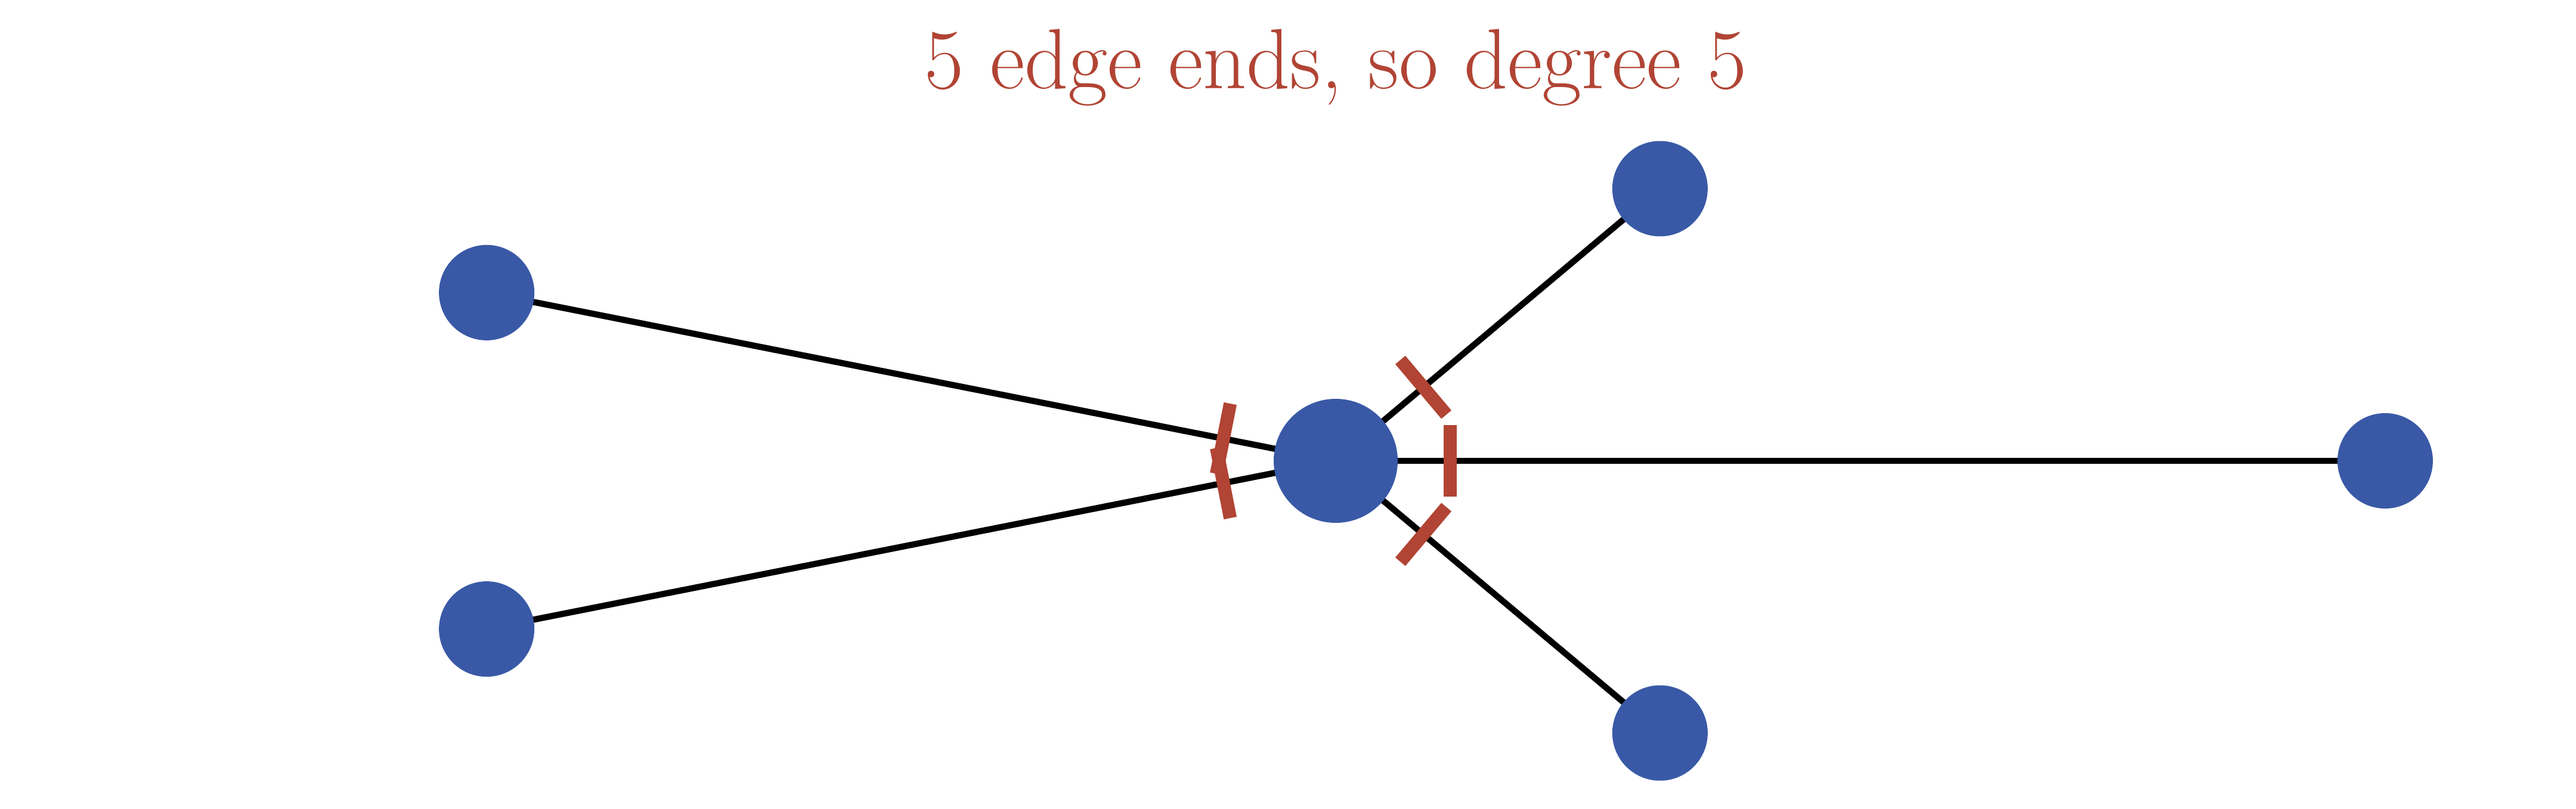
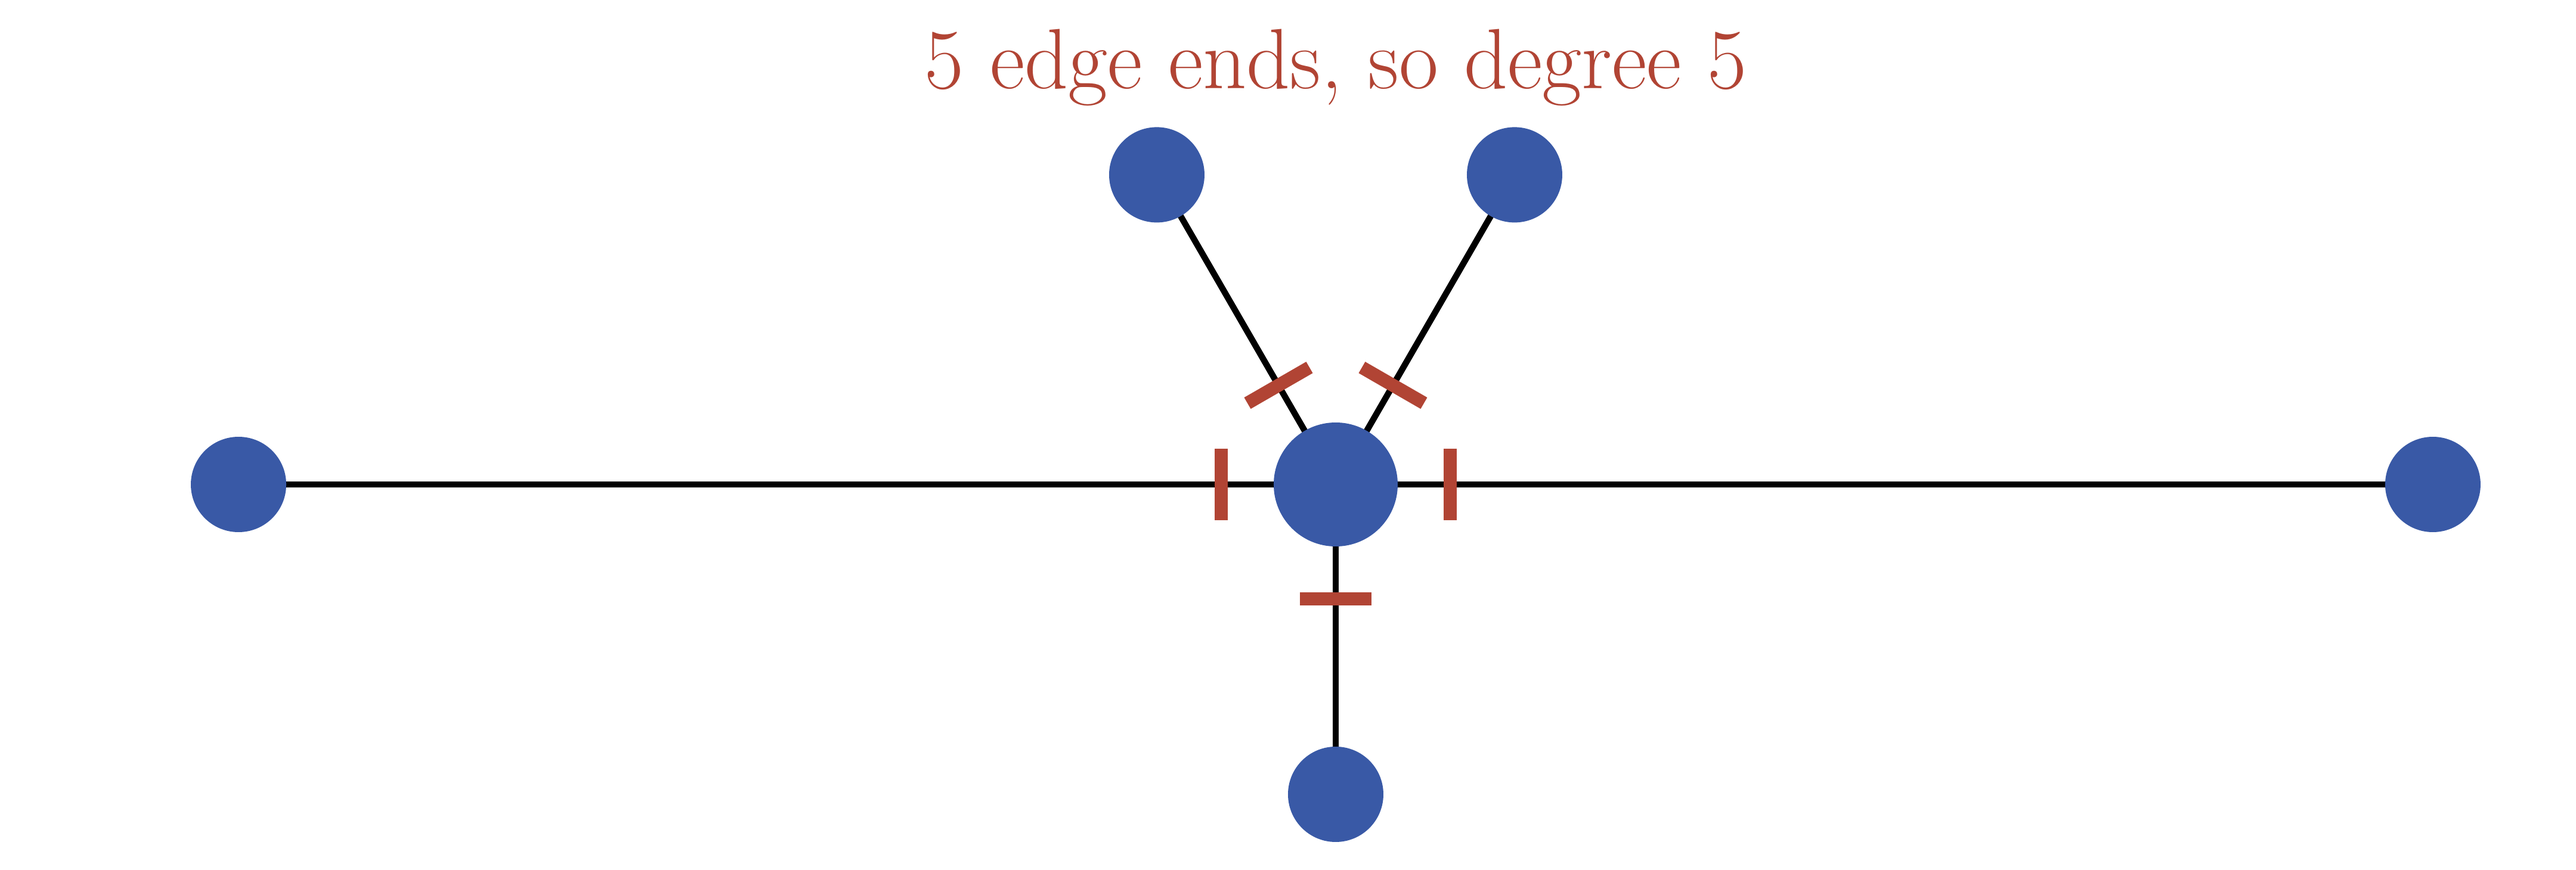
m06: split the two-application slide, and record what plan.md did not get
'Two more' carried both infrastructure defence and systemic risk, which is two
points on one slide. DECK_SPEC gains a deviations section: the power-iteration
slider is not built (it only exists in the --html export, which the render gate
never exercises), and Part 5 meets S5 through the GIF and the discussion instead.

diff --git a/docs/slide/new/m06/figures/figs_web.py b/docs/slide/new/m06/figures/figs_web.py
@@ -681,22 +681,22 @@ def sketch(cx, cy, nodes, edges, key, name, ring_key=True, dashed=()):
 # purpose -> the metrics that answer it. The five pairings of DECK_SPEC slide 85,
 # each drawn as its own thumbnail so the slide cannot read as a table.
 PURPOSE = [
-    dict(sx=70, sy=250, tx=138, anchor="west", purpose="popular", metric="degree",
+    dict(sx=70, sy=250, tx=140, anchor="west", purpose="popular", metric="degree",
          nodes=[(0, 0), (38, 0), (12, 36), (-31, 22), (-31, -22), (12, -36)],
          edges=[(0, 1), (0, 2), (0, 3), (0, 4), (0, 5)], key=0),
-    dict(sx=350, sy=250, tx=415, anchor="west", purpose="efficient",
-         metric="closeness,\\\\harmonic",
+    dict(sx=372, sy=250, tx=442, anchor="west", purpose="efficient",
+         metric="closeness\\\\harmonic",
          nodes=[(-42, -32), (-21, -5), (0, 22), (21, -5), (42, -32)],
          edges=[(0, 1), (1, 2), (2, 3), (3, 4)], key=2),
-    dict(sx=955, sy=250, tx=890, anchor="east", purpose="critical",
-         metric="betweenness,\\\\eccentricity",
+    dict(sx=966, sy=250, tx=900, anchor="east", purpose="critical",
+         metric="betweenness\\\\eccentricity",
          nodes=[(-40, 24), (-40, -24), (0, 0), (40, 24), (40, -24)],
          edges=[(0, 1), (0, 2), (1, 2), (2, 3), (2, 4), (3, 4)], key=2),
-    dict(sx=180, sy=100, tx=248, anchor="west", purpose="influential",
+    dict(sx=180, sy=100, tx=250, anchor="west", purpose="influential",
          metric="eigenvector,\\\\Katz, PageRank",
          nodes=[(16, 24), (16, -24), (40, 0), (-16, 0), (-40, 28)],
          edges=[(0, 1), (0, 2), (1, 2), (3, 0), (3, 1), (4, 3)], key=0),
-    dict(sx=965, sy=100, tx=900, anchor="east", purpose="personalized",
+    dict(sx=966, sy=100, tx=900, anchor="east", purpose="personalized",
          metric="personalized\\\\PageRank",
          nodes=[(-38, 0), (0, 28), (0, -28), (38, 24), (38, -24)],
          edges=[(0, 1), (0, 2), (1, 3), (2, 4), (3, 4)], key=0,
@@ -707,8 +707,9 @@ PURPOSE = [
 def _purpose_boxes():
     out = []
     for i, it in enumerate(PURPOSE):
-        pb = F.label_box(it["tx"], it["sy"] + 38, it["purpose"], it["anchor"])
-        mb = F.label_box(it["tx"], it["sy"] - 20, it["metric"], it["anchor"])
+        pb = F.label_box(it["tx"], it["sy"] + 50, it["purpose"], it["anchor"])
+        mb = F.label_box(it["tx"], it["sy"] - 26, it["metric"], it["anchor"])
+        assert not F.boxes_overlap(pb, mb), f"purpose-{i + 1}: the two lines overlap"
         out.append((i, pb, mb))
     return out
 
@@ -737,9 +738,9 @@ def fig_purpose(step):
                 assert not F.boxes_overlap(b, sb), \
                     f"the purpose-{i + 1} caption lands on thumbnail {j + 1}"
     for i, it in enumerate(PURPOSE[:step]):
-        body += F.text(it["tx"], it["sy"] + 38, it["purpose"], color="black",
+        body += F.text(it["tx"], it["sy"] + 50, it["purpose"], color="black",
                        anchor=it["anchor"])
-        body += F.text(it["tx"], it["sy"] - 20, it["metric"], color=A2,
+        body += F.text(it["tx"], it["sy"] - 26, it["metric"], color=A2,
                        anchor=it["anchor"])
     F.emit(f"purpose-{step}", body, container="full", h=CANVAS_H)
 
@@ -770,7 +771,7 @@ def fig_robustness():
     assert dict(ROBUST)["degree"] == 1.0 > dict(ROBUST)["eigenvector"] == 0.792
     assert [m for m, _ in ROBUST] == sorted([m for m, _ in ROBUST],
                                             key=lambda m: -dict(ROBUST)[m])
-    x0, x1, ay = 410.0, 960.0, 62.0
+    x0, x1, ay = 410.0, 930.0, 62.0
     body = F.seg((x0, ay), (x1, ay), color="black", w=2.2)
     for v in (0.0, 0.5, 1.0):
         x = x0 + v * (x1 - x0)

diff --git a/docs/slide/new/m06/figures/figs_small.py b/docs/slide/new/m06/figures/figs_small.py
@@ -267,14 +267,18 @@ def fig_club_three_kings():
 def fig_degree_count():
     """One node, five edge ends, each end ticked. Degree counts ends, not neighbours."""
     start_log()
-    # Five spokes 72 deg apart on a wide ellipse: even spacing keeps the five ticks
-    # from bunching into one red smear at the hub, and the ellipse (not a circle) is
-    # what gets the ink across 76% of the canvas inside the height cap.
-    cx, cy, rx, ry = 560, 175, 440, 120
+    # The direction of each spoke is chosen in DRAWING space, with its own length,
+    # rather than by putting five nodes on an ellipse: an ellipse wide enough for the
+    # ink-span gate squashes 60 deg of angle down to 28, and the two left-hand ticks
+    # rendered as one bracket. Here no two spokes leave the hub less than 60 deg
+    # apart, so the five ticks are five ticks.
+    cx, cy = 560, 175
+    spokes = [(0, 460), (60, 150), (120, 150), (180, 460), (270, 130)]
+    assert min((b[0] - a[0]) % 360 for a, b in zip(spokes, spokes[1:] + spokes[:1])) >= 60
     pos = {"c": (cx, cy)}
-    for i in range(5):
-        a = math.radians(72 * i)
-        pos[f"n{i}"] = (cx + rx * math.cos(a), cy + ry * math.sin(a))
+    for i, (deg, L) in enumerate(spokes):
+        a = math.radians(deg)
+        pos[f"n{i}"] = (cx + L * math.cos(a), cy + L * math.sin(a))
     edges = [("c", f"n{i}") for i in range(5)]
     F.assert_planar_drawing(edges, pos, "degree-count")
     k = len(edges)
@@ -291,8 +295,8 @@ def fig_degree_count():
                    color=RED, w=5.5)
     b += discs_ink({n: p for n, p in pos.items() if n != "c"})
     b += F.disc(cx, cy, "", fill="accent", size=52)
-    b += T(cx, 340, f"{k} edge ends, so degree {k}", color=RED)
-    F.emit("degree-count", b, container="full", h=400)
+    b += T(cx, 350, f"{k} edge ends, so degree {k}", color=RED)
+    F.emit("degree-count", b, container="full", h=410)
 
 
 # =============================================================================

diff --git a/docs/slide/new/m06/review/DECK_SPEC.md b/docs/slide/new/m06/review/DECK_SPEC.md
@@ -641,3 +641,28 @@ c19 s68 · c20 s69 · c21 s76 · c22 s79 · c23 s81 · c24 s85 · c25 s90 · c26
 c28 s25 · c29 s73 · c30 s81
 
 Nothing is left off the slides.
+
+---
+
+# KNOWN DEVIATIONS FROM plan.md, AND WHAT WAS SHIPPED INSTEAD
+
+Listed so the next round does not spend time rediscovering them.
+
+- **The power-iteration slider (plan.md milestone P5) was not built.** The deck
+  ships `power-iteration.gif` plus the "step one is degree" slide. A slider only
+  exists in the `--html` export, which `check_render.py` never exercises, so it
+  cannot be shipped without driving the real control in a browser and confirming
+  it runs — and `DECK_BUILD_GUIDE.md` is explicit that checking the `<script>`
+  survived the export is not the same as checking that it runs. Part 5 still meets
+  S5 through the animation and the "describe a network where this breaks"
+  discussion. **If this is picked up, the data is already in
+  `verify_numbers.POWER_TRACE` and the GIF is generated from it, so the two cannot
+  drift.**
+- **No marimo demo**, per `plan.md`.
+- **No day-2 recap slide**, per `plan.md` — Part 5 restarts from its divider.
+- **The eccentricity crown is shared three ways** rather than being Rome's alone.
+  That is the data, and the deck uses it as the first crack rather than hiding it.
+- **`hits-collapses.png` was cut.** It rendered byte-identical to
+  `roma-eigenvector.png` — which is the theorem, not a bug — so the Part 7 slide
+  reuses the Part 5 figure and its caption says why. The identity is still
+  asserted in `figs_rome.check_hits_collapses`.

diff --git a/docs/slide/new/m06/m06-centrality.md b/docs/slide/new/m06/m06-centrality.md
@@ -1991,16 +1991,38 @@ Module 04's friendship paradox, used deliberately: ask a random person to name a
 
 ---
 
-## Two more
+## Defending infrastructure
 
 <hr>
 
 <div class="cols">
 <div>
 
-**Defending infrastructure** — Module 03 showed networks die fastest when the attacker targets well. So does the defender.
+Module 03 showed that a network dies fastest when the attacker chooses well.
 
-**Systemic risk** — a bank that is not large can still be the one every exposure runs through.
+The defender reads the same ranking. **Betweenness** names the substations whose loss splits the grid, not the ones with the most cables.
+
+</div>
+<div class="fig">
+
+![w:537](figures/applications-2.png)
+<figcaption>the nodes worth hardening first</figcaption>
+
+</div>
+</div>
+
+---
+
+## Systemic risk
+
+<hr>
+
+<div class="cols">
+<div>
+
+A bank that is not large can still be the one every exposure runs through.
+
+Regulators score institutions on their **position**, not their balance sheet — which is a centrality, chosen for a purpose.
 
 </div>
 <div class="fig">
